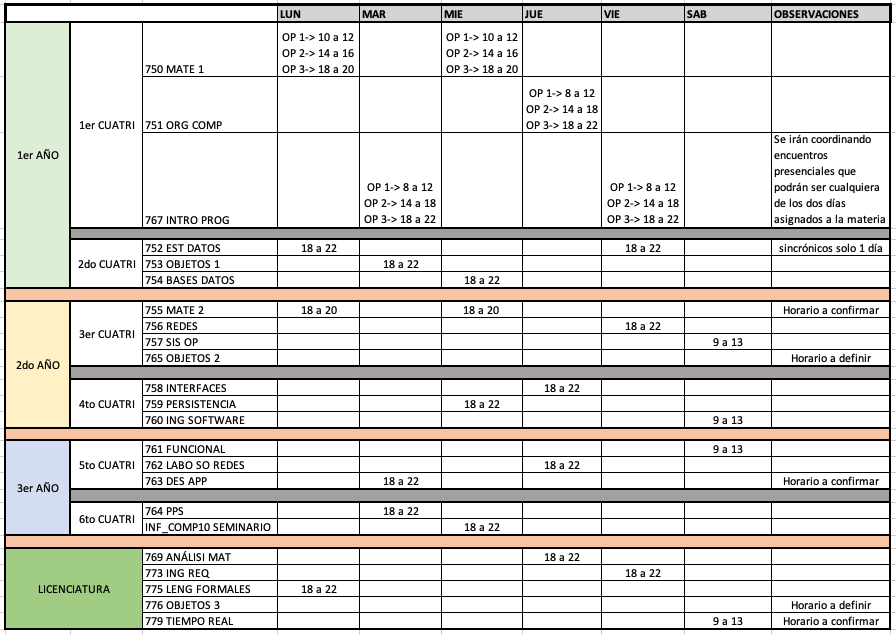
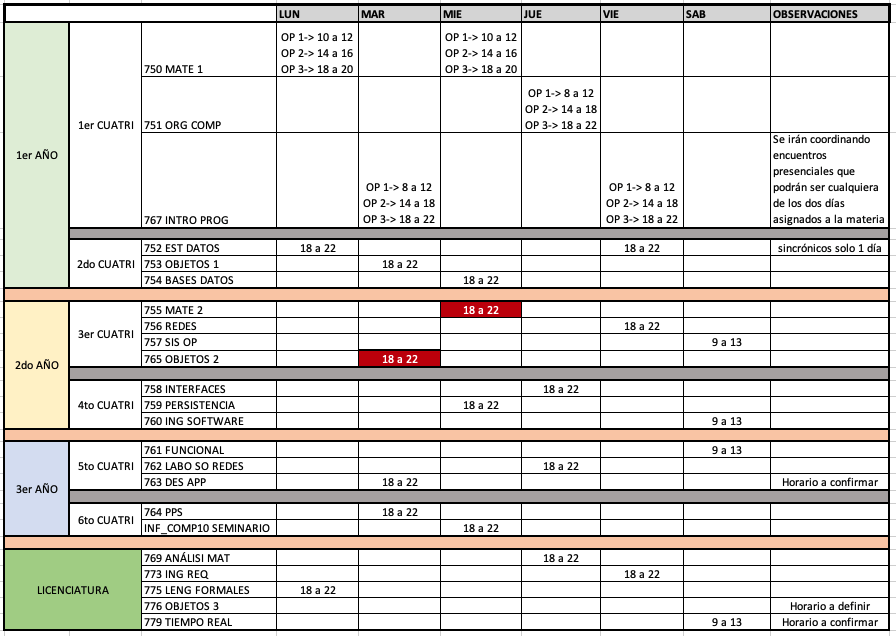
actualiza horarios

diff --git a/_posts/2021-07-15-objetos-2.md b/_posts/2021-07-15-objetos-2.md
@@ -10,9 +10,8 @@ questions:
   - question: 'OBJETIVOS'
     answer: 'Esta materia fortalece los conocimientos de programación adquieridos en Objetos 1 introduciendo aspectos profesionales avanzados y buenas prácticas de la industria. Específicamente las pruebas automatizadas y TDD, diseño de software, refactoring y patrones de diseño.'
     programa: "765-Objetos-2.pdf"
-    image: ""
+    image: "765-Objetos-2.png"
     modalidad: "MODALIDAD VIRTUAL"
-    otros: "Horario a confirmar"
   - question: '¿Cómo se cursa virtualmente?'
     answer: 'Cada clase tiene una duración de dos semanas e incluye:
     un encuentro sincrónico de una hora, en el que introduciremos los contenidos de la clase; una serie de videos, apuntes y artículos donde se encuentra todo lo necesario para comprender los temas de la clase; y un ejercicio práctico grupal para aplicar lo aprendido en la clase y que se corrige de manera personalizada.'
